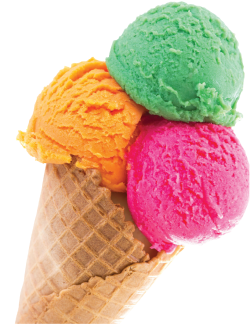
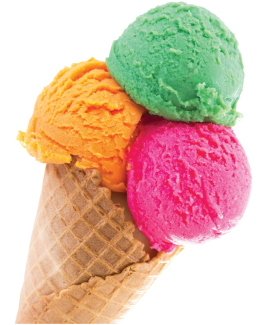
hero fixes

diff --git a/src/partials/hero.html b/src/partials/hero.html
@@ -45,6 +45,8 @@
           "
           type="image/webp"
           media="(min-width: 1200px)"
+          width="447"
+          height="561"
         />
         <source
           srcset="
@@ -52,6 +54,8 @@
             ./images/hero/pc-hero-icecream@2x.png 2x
           "
           media="(min-width: 1200px)"
+          width="447"
+          height="561"
         />
         <source
           srcset="
@@ -60,6 +64,8 @@
           "
           type="image/webp"
           media="(min-width: 768px)"
+          width="257"
+          height="325"
         />
         <source
           srcset="
@@ -67,6 +73,8 @@
             ./images/hero/tablet-hero-icecream@2x.png 2x
           "
           media="(min-width: 768px)"
+          width="257"
+          height="325"
         />
         <source
           srcset="
@@ -75,6 +83,8 @@
           "
           type="image/webp"
           media="(max-width: 767px)"
+          width="157"
+          height="207"
         />
         <source
           srcset="
@@ -82,6 +92,8 @@
             ./images/hero/phone-hero-icecream@2x.png 2x
           "
           media="(max-width: 767px)"
+          width="157"
+          height="207"
         />
         <img
           src="./images/hero/phone-hero-icecream.png"
@@ -100,6 +112,8 @@
           "
           type="image/webp"
           media="(min-width: 1200px)"
+          width="225"
+          height="225"
         />
         <source
           srcset="
@@ -107,6 +121,8 @@
             ./images/hero/pc-icecreamballs@2x.png 2x
           "
           media="(min-width: 1200px)"
+          width="225"
+          height="225"
         />
         <source
           srcset="
@@ -115,6 +131,8 @@
           "
           type="image/webp"
           media="(min-width: 768px)"
+          width="152"
+          height="152"
         />
         <source
           srcset="
@@ -122,6 +140,8 @@
             ./images/hero/tablet-icecreamballs@2x.png 2x
           "
           media="(min-width: 768px)"
+          width="152"
+          height="152"
         />
         <img
           src="./images/hero/tablet-icecreamballs.png"

diff --git a/src/sass/components/_hero.scss b/src/sass/components/_hero.scss
@@ -338,3 +338,30 @@
     bottom: -52px;
   }
 }
+
+@media screen and (min-device-pixel-ratio: 2) and (max-width: 767px),
+  screen and (min-resolution: 192dpi) and (max-width: 767px),
+  screen and (min-resolution: 2dppx) and (max-width: 767px) {
+  .hero {
+    background-image: url(../images/hero/phone-dots@2x.png);
+    background-size: 320px;
+  }
+}
+
+@media screen and (min-device-pixel-ratio: 2) and (min-width: 768px),
+  screen and (min-resolution: 192dpi) and (min-width: 768px),
+  screen and (min-resolution: 2dppx) and (min-width: 768px) {
+  .hero {
+    background-image: url(../images/hero/tablet-dots@2x.png);
+    background-size: 768px;
+  }
+}
+
+@media screen and (min-device-pixel-ratio: 2) and (min-width: 1200px),
+  screen and (min-resolution: 192dpi) and (min-width: 1200px),
+  screen and (min-resolution: 2dppx) and (min-width: 1200px) {
+  .hero {
+    background-image: url(../images/hero/pc-dots@2x.png);
+    background-size: 1200px;
+  }
+}
